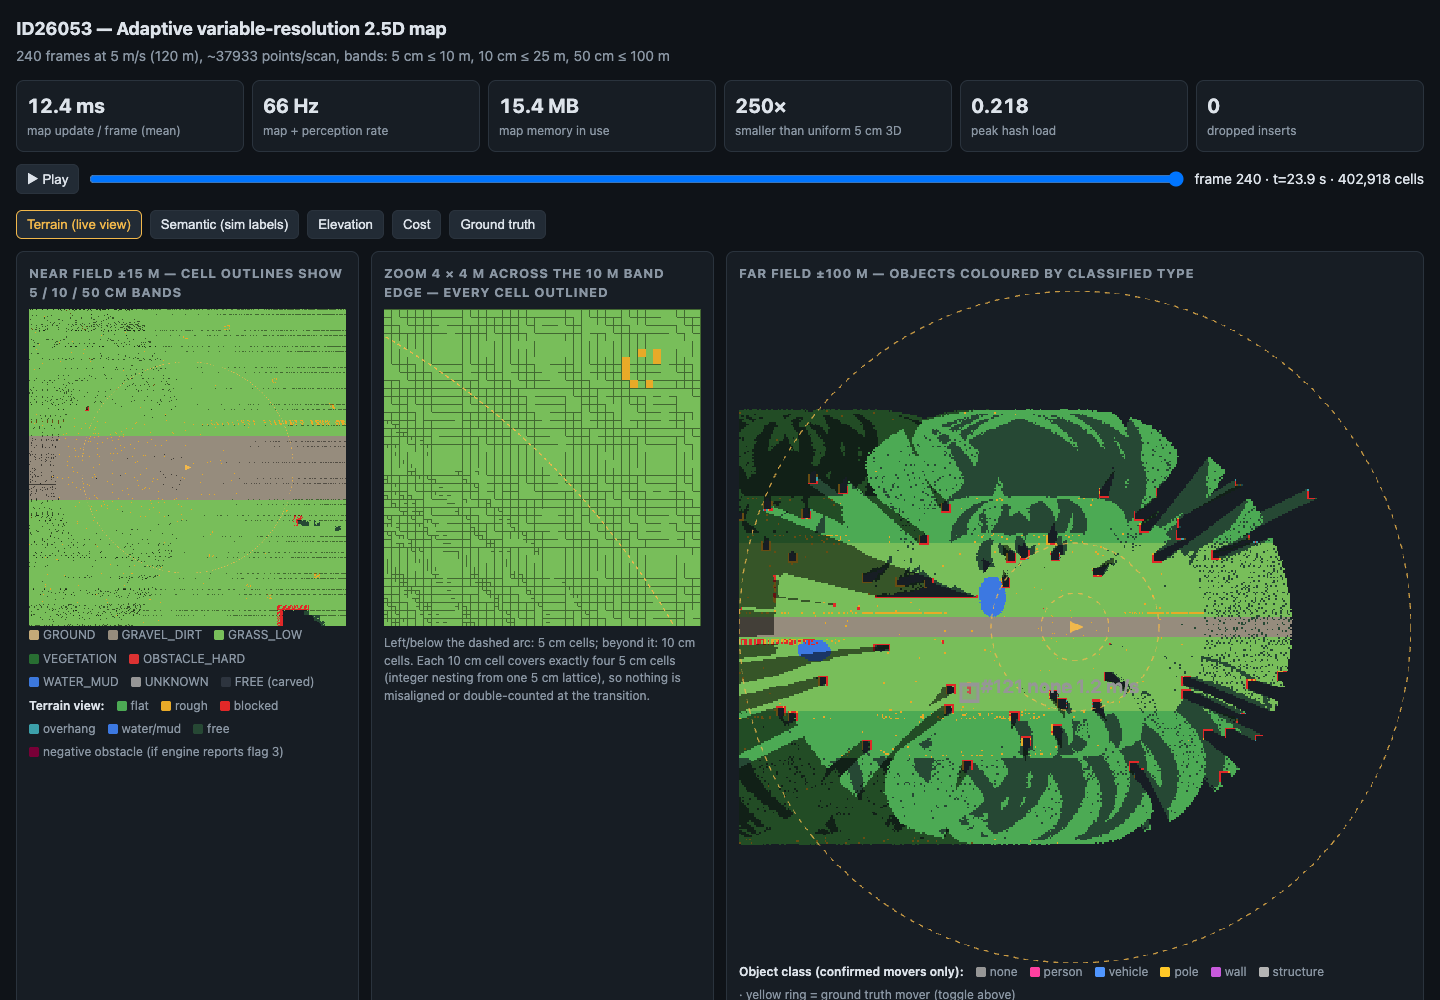
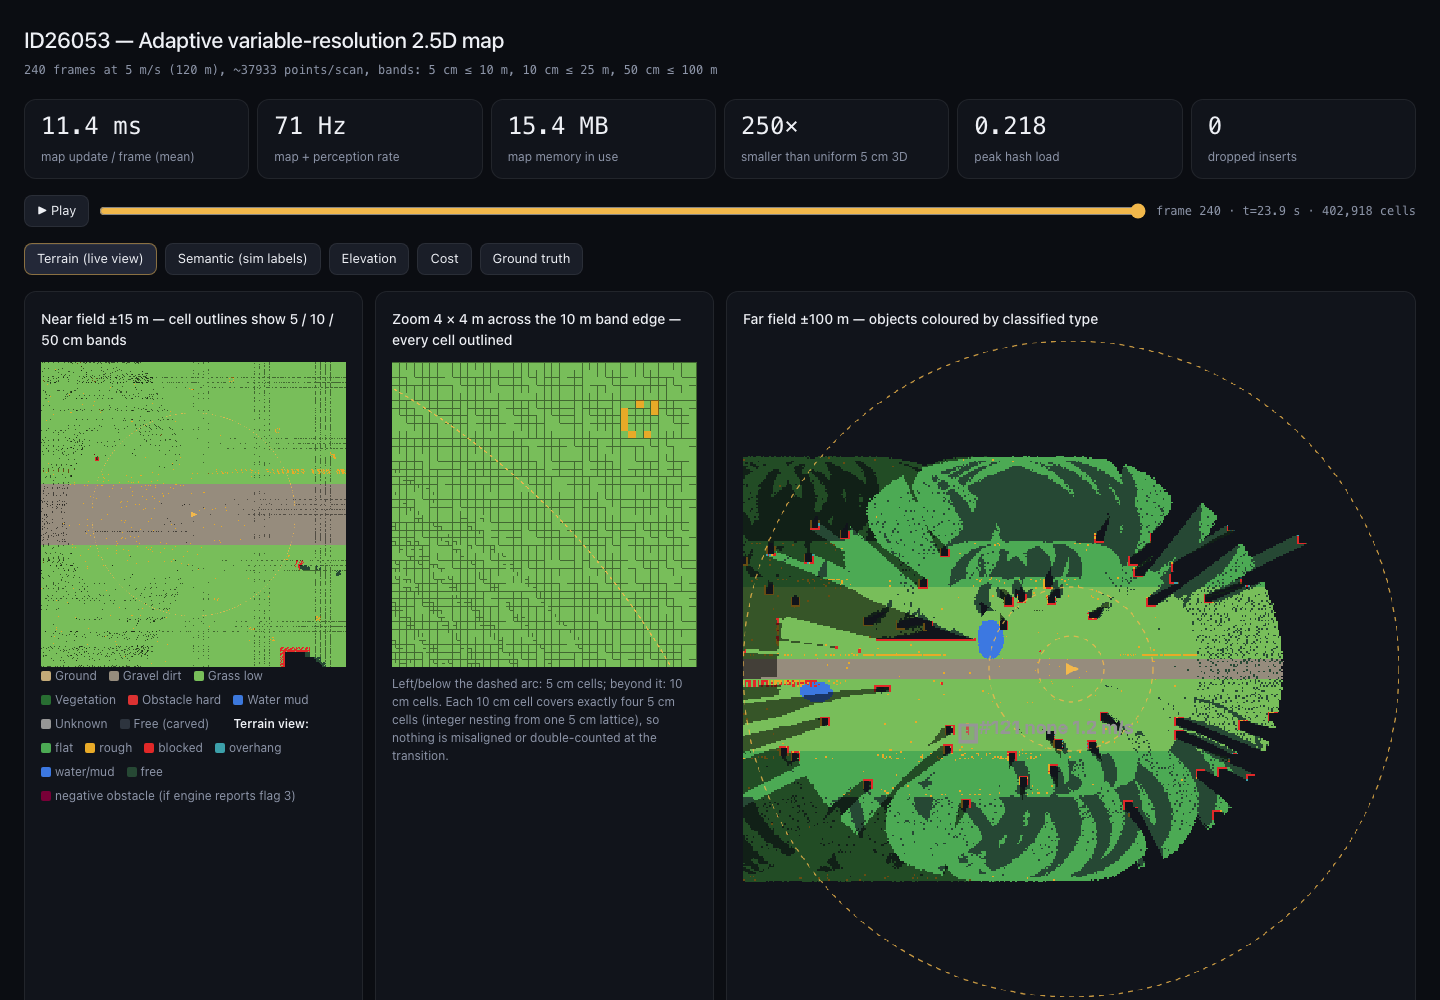
style(dashboard): sentence-case panel titles, mono figures
Panel titles lose uppercase tracking, KPIs and tables use a mono face, the slider takes the accent colour and legend names read in sentence case. Refreshes README screenshots.

diff --git a/scripts/map_dashboard.py b/scripts/map_dashboard.py
@@ -475,18 +475,18 @@ def main():
 HTML = r"""<!doctype html><html><head><meta charset="utf-8"><meta name="viewport" content="width=device-width,initial-scale=1">
 <title>ID26053 Foveated Map Dashboard</title>
 <style>
-:root{--bg:#0f1318;--panel:#171d24;--line:#2a333d;--fg:#dde3ea;--mute:#8a96a3;--acc:#f2b84b}
-*{box-sizing:border-box}body{margin:0;background:var(--bg);color:var(--fg);font:14px/1.45 system-ui,sans-serif;padding:16px}
-h1{font-size:18px;margin:0 0 4px}h2{font-size:13px;margin:0 0 8px;color:var(--mute);text-transform:uppercase;letter-spacing:.06em}
-.sub{color:var(--mute);margin-bottom:14px}.grid{display:grid;grid-template-columns:repeat(auto-fit,minmax(320px,1fr));gap:12px}
-.panel{background:var(--panel);border:1px solid var(--line);border-radius:8px;padding:12px;min-width:0}
-.kpis{display:grid;grid-template-columns:repeat(auto-fit,minmax(140px,1fr));gap:8px;margin-bottom:12px}
-.kpi{background:var(--panel);border:1px solid var(--line);border-radius:8px;padding:10px}.kpi b{display:block;font-size:20px;font-variant-numeric:tabular-nums}
-.kpi span{color:var(--mute);font-size:12px}.controls{display:flex;flex-wrap:wrap;gap:8px;align-items:center;margin:0 0 12px}
-button{background:#222b35;color:var(--fg);border:1px solid var(--line);border-radius:6px;padding:6px 10px;cursor:pointer}
-button.on{border-color:var(--acc);color:var(--acc)}input[type=range]{flex:1;min-width:160px}
+:root{--bg:#0b0d12;--panel:#11141b;--line:rgba(238,240,245,.08);--fg:#eef0f5;--mute:#8d95a8;--acc:#f2b84b;--mono:ui-monospace,'SF Mono',Menlo,Consolas,monospace}
+*{box-sizing:border-box}body{margin:0;background:var(--bg);color:var(--fg);font:14px/1.5 system-ui,sans-serif;padding:24px;-webkit-font-smoothing:antialiased}
+h1{font-size:22px;font-weight:500;margin:0 0 4px;letter-spacing:-.01em}h2{font-size:14px;font-weight:500;margin:0 0 12px;color:var(--fg)}
+.sub{color:var(--mute);margin-bottom:20px;font-family:var(--mono);font-size:12px}.grid{display:grid;grid-template-columns:repeat(auto-fit,minmax(320px,1fr));gap:12px}
+.panel{background:var(--panel);border:1px solid var(--line);border-radius:12px;padding:16px;min-width:0}
+.kpis{display:grid;grid-template-columns:repeat(auto-fit,minmax(140px,1fr));gap:8px;margin-bottom:16px}
+.kpi{background:var(--panel);border:1px solid var(--line);border-radius:12px;padding:12px 16px}.kpi b{display:block;font:400 24px/1.2 var(--mono);font-variant-numeric:tabular-nums;margin-bottom:4px}
+.kpi span{color:var(--mute);font-size:12px}.controls{display:flex;flex-wrap:wrap;gap:8px;align-items:center;margin:0 0 16px}#flabel{font:12px var(--mono);color:var(--mute)}
+button{background:#1a1e28;color:var(--fg);border:1px solid var(--line);border-radius:8px;padding:0 12px;height:32px;cursor:pointer;font:inherit;font-size:13px;transition:background-color .15s cubic-bezier(.22,1,.36,1),border-color .15s cubic-bezier(.22,1,.36,1)}button:hover{background:#222734}button:focus-visible{outline:2px solid var(--acc);outline-offset:2px}
+button.on{background:#232838;border-color:rgba(242,184,75,.5);color:var(--fg);box-shadow:inset 0 1px 0 rgba(255,255,255,.06)}input[type=range]{flex:1;min-width:160px;accent-color:var(--acc)}
 .view{position:relative;width:100%;aspect-ratio:1;max-width:100%}.view img,.view canvas{position:absolute;inset:0;width:100%;height:100%;image-rendering:pixelated}
-table{width:100%;border-collapse:collapse;font-variant-numeric:tabular-nums}td,th{padding:4px 6px;border-bottom:1px solid var(--line);text-align:right}td:first-child,th:first-child{text-align:left}
+table{width:100%;border-collapse:collapse;font-variant-numeric:tabular-nums}td,th{padding:6px 8px;border-bottom:1px solid var(--line);text-align:right;font-family:var(--mono);font-size:12px}th{color:var(--mute);font-weight:400}td:first-child,th:first-child{text-align:left}
 .legend{display:flex;flex-wrap:wrap;gap:6px 12px;font-size:12px;color:var(--mute)}.sw{display:inline-block;width:10px;height:10px;border-radius:2px;margin-right:4px;vertical-align:-1px}
 @media (min-width:1000px){.wide{grid-column:span 2}}
 .bar{height:14px;background:var(--acc);border-radius:3px}.note{color:var(--mute);font-size:12px;margin-top:8px}
@@ -529,8 +529,9 @@ document.getElementById('mem').innerHTML='<table>'+Object.entries(m).map(([k,v])
 document.getElementById('lat').innerHTML='<tr><th>stage</th><th>mean</th><th>p95</th><th>max</th></tr>'+Object.entries(lat).map(([k,v])=>`<tr><td>${k.replace('_ms','')}</td><td>${fmt(v.mean,2)}</td><td>${fmt(v.p95,2)}</td><td>${fmt(v.max,2)}</td></tr>`).join('');
 document.getElementById('latnote').textContent='Timed around the Python→C++ calls, so insert includes the numpy transfer. Perception is Python/scikit-learn.';
 document.getElementById('dyn').innerHTML='<tr><th>range</th><th>object-frames</th><th>recall</th></tr>'+S.dynamic_recall_by_range.map(r=>`<tr><td>${r.range}</td><td>${r.frames}</td><td>${r.recall==null?'n/a':fmt(100*r.recall,0)+'%'}</td></tr>`).join('')+`<tr><td>static objects reported moving</td><td>${S.false_dynamic_track_frames} / ${S.dynamic_track_frames}</td><td>object-frames</td></tr>`+Object.entries(S.confirm_delay_s).map(([k,v])=>`<tr><td>time to confirm: ${k}</td><td></td><td>${fmt(v,1)} s</td></tr>`).join('');
-document.getElementById('legend').innerHTML=S.classes.map(c=>`<span><i class="sw" style="background:rgb(${c.rgb})"></i>${c.name}</span>`).join('')+'<span><i class="sw" style="background:#2d343e"></i>FREE (carved)</span><br><b style="color:var(--fg);font-weight:600">Terrain view:</b> <span><i class="sw" style="background:rgb(76,170,84)"></i>flat</span><span><i class="sw" style="background:rgb(232,170,40)"></i>rough</span><span><i class="sw" style="background:rgb(225,40,40)"></i>blocked</span><span><i class="sw" style="background:rgb(60,160,170)"></i>overhang</span><span><i class="sw" style="background:rgb(60,120,225)"></i>water/mud</span><span><i class="sw" style="background:rgb(38,72,52)"></i>free</span><span><i class="sw" style="background:rgb(120,0,55)"></i>negative obstacle (if engine reports flag 3)</span>';
-document.getElementById('objlegend').innerHTML='<b style="color:var(--fg);font-weight:600">Object class (confirmed movers only):</b> '+S.obj_classes.map(c=>`<span><i class="sw" style="background:rgb(${c.rgb})"></i>${c.name}</span>`).join('')+' <span>· yellow ring = ground truth mover (toggle above)</span>';
+const nice=n=>{const t=String(n).toLowerCase().replace(/_/g,' ');return t.charAt(0).toUpperCase()+t.slice(1)};
+document.getElementById('legend').innerHTML=S.classes.map(c=>`<span><i class="sw" style="background:rgb(${c.rgb})"></i>${nice(c.name)}</span>`).join('')+'<span><i class="sw" style="background:#2d343e"></i>Free (carved)</span><br><b style="color:var(--fg);font-weight:600">Terrain view:</b> <span><i class="sw" style="background:rgb(76,170,84)"></i>flat</span><span><i class="sw" style="background:rgb(232,170,40)"></i>rough</span><span><i class="sw" style="background:rgb(225,40,40)"></i>blocked</span><span><i class="sw" style="background:rgb(60,160,170)"></i>overhang</span><span><i class="sw" style="background:rgb(60,120,225)"></i>water/mud</span><span><i class="sw" style="background:rgb(38,72,52)"></i>free</span><span><i class="sw" style="background:rgb(120,0,55)"></i>negative obstacle (if engine reports flag 3)</span>';
+document.getElementById('objlegend').innerHTML='<b style="color:var(--fg);font-weight:600">Object class (confirmed movers only):</b> '+S.obj_classes.map(c=>`<span><i class="sw" style="background:rgb(${c.rgb})"></i>${nice(c.name)}</span>`).join('')+' <span>· yellow ring = ground truth mover (toggle above)</span>';
 const hashIdx=parseInt((location.hash.match(/snap=(\d+)/)||[])[1]); if(hashIdx>=0&&hashIdx<snaps.length) idx=hashIdx;
 const slider=document.getElementById('slider'); slider.max=snaps.length-1; slider.value=idx;
 let showTruth=false;
